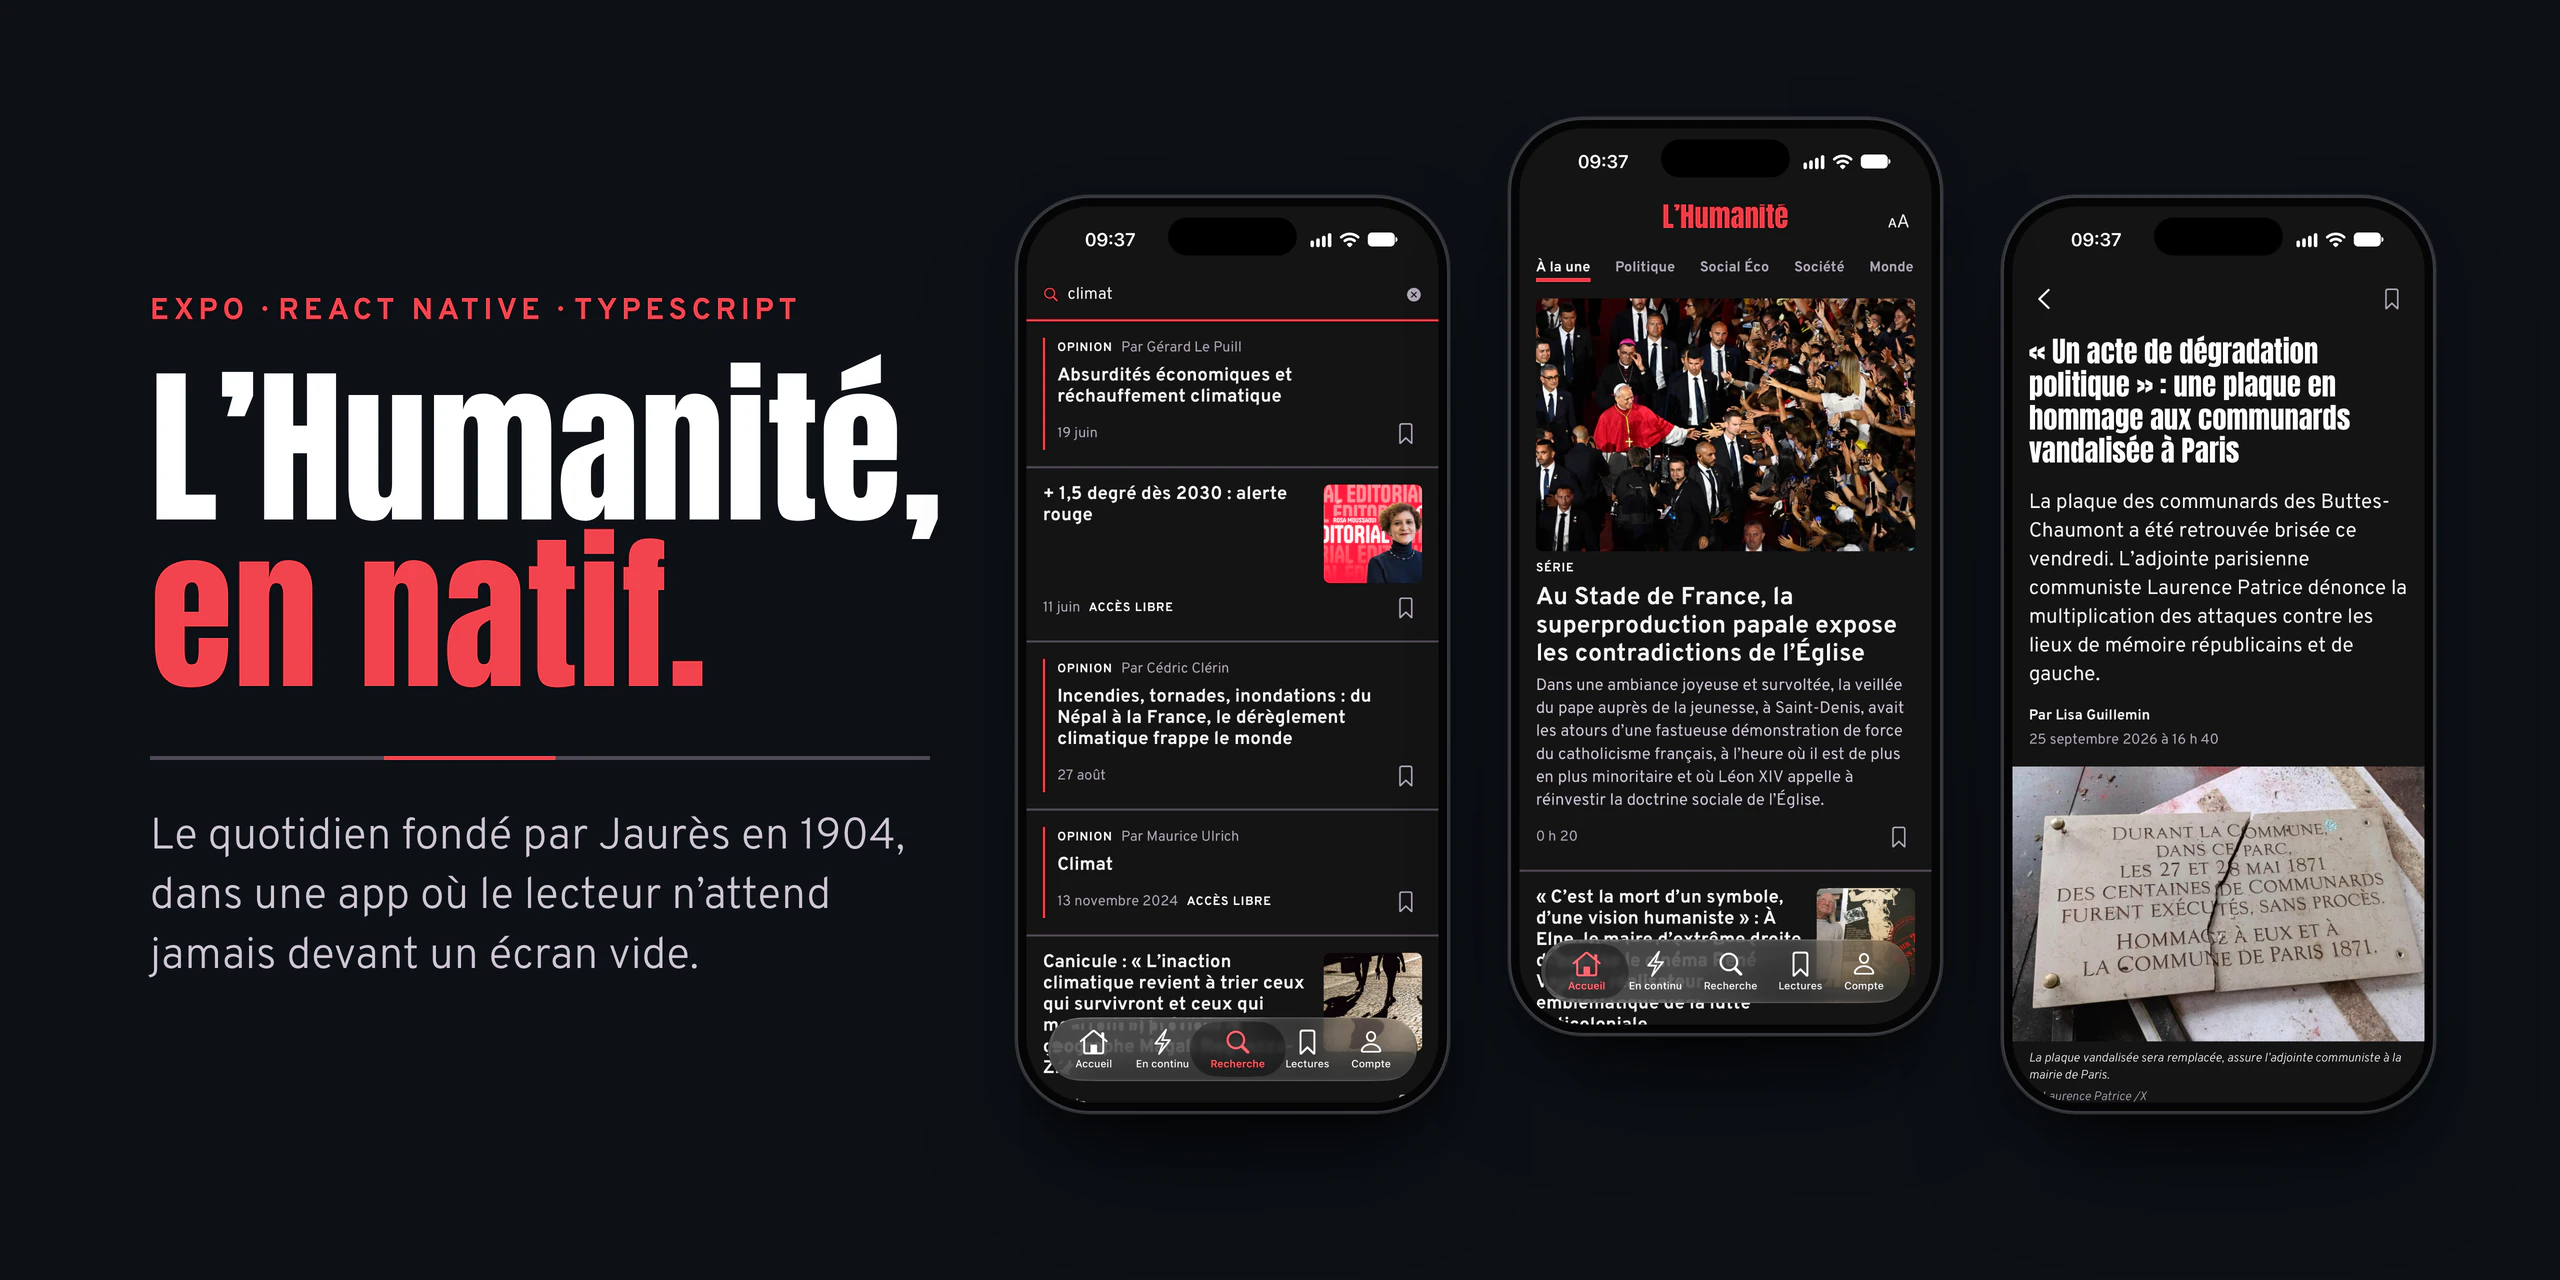
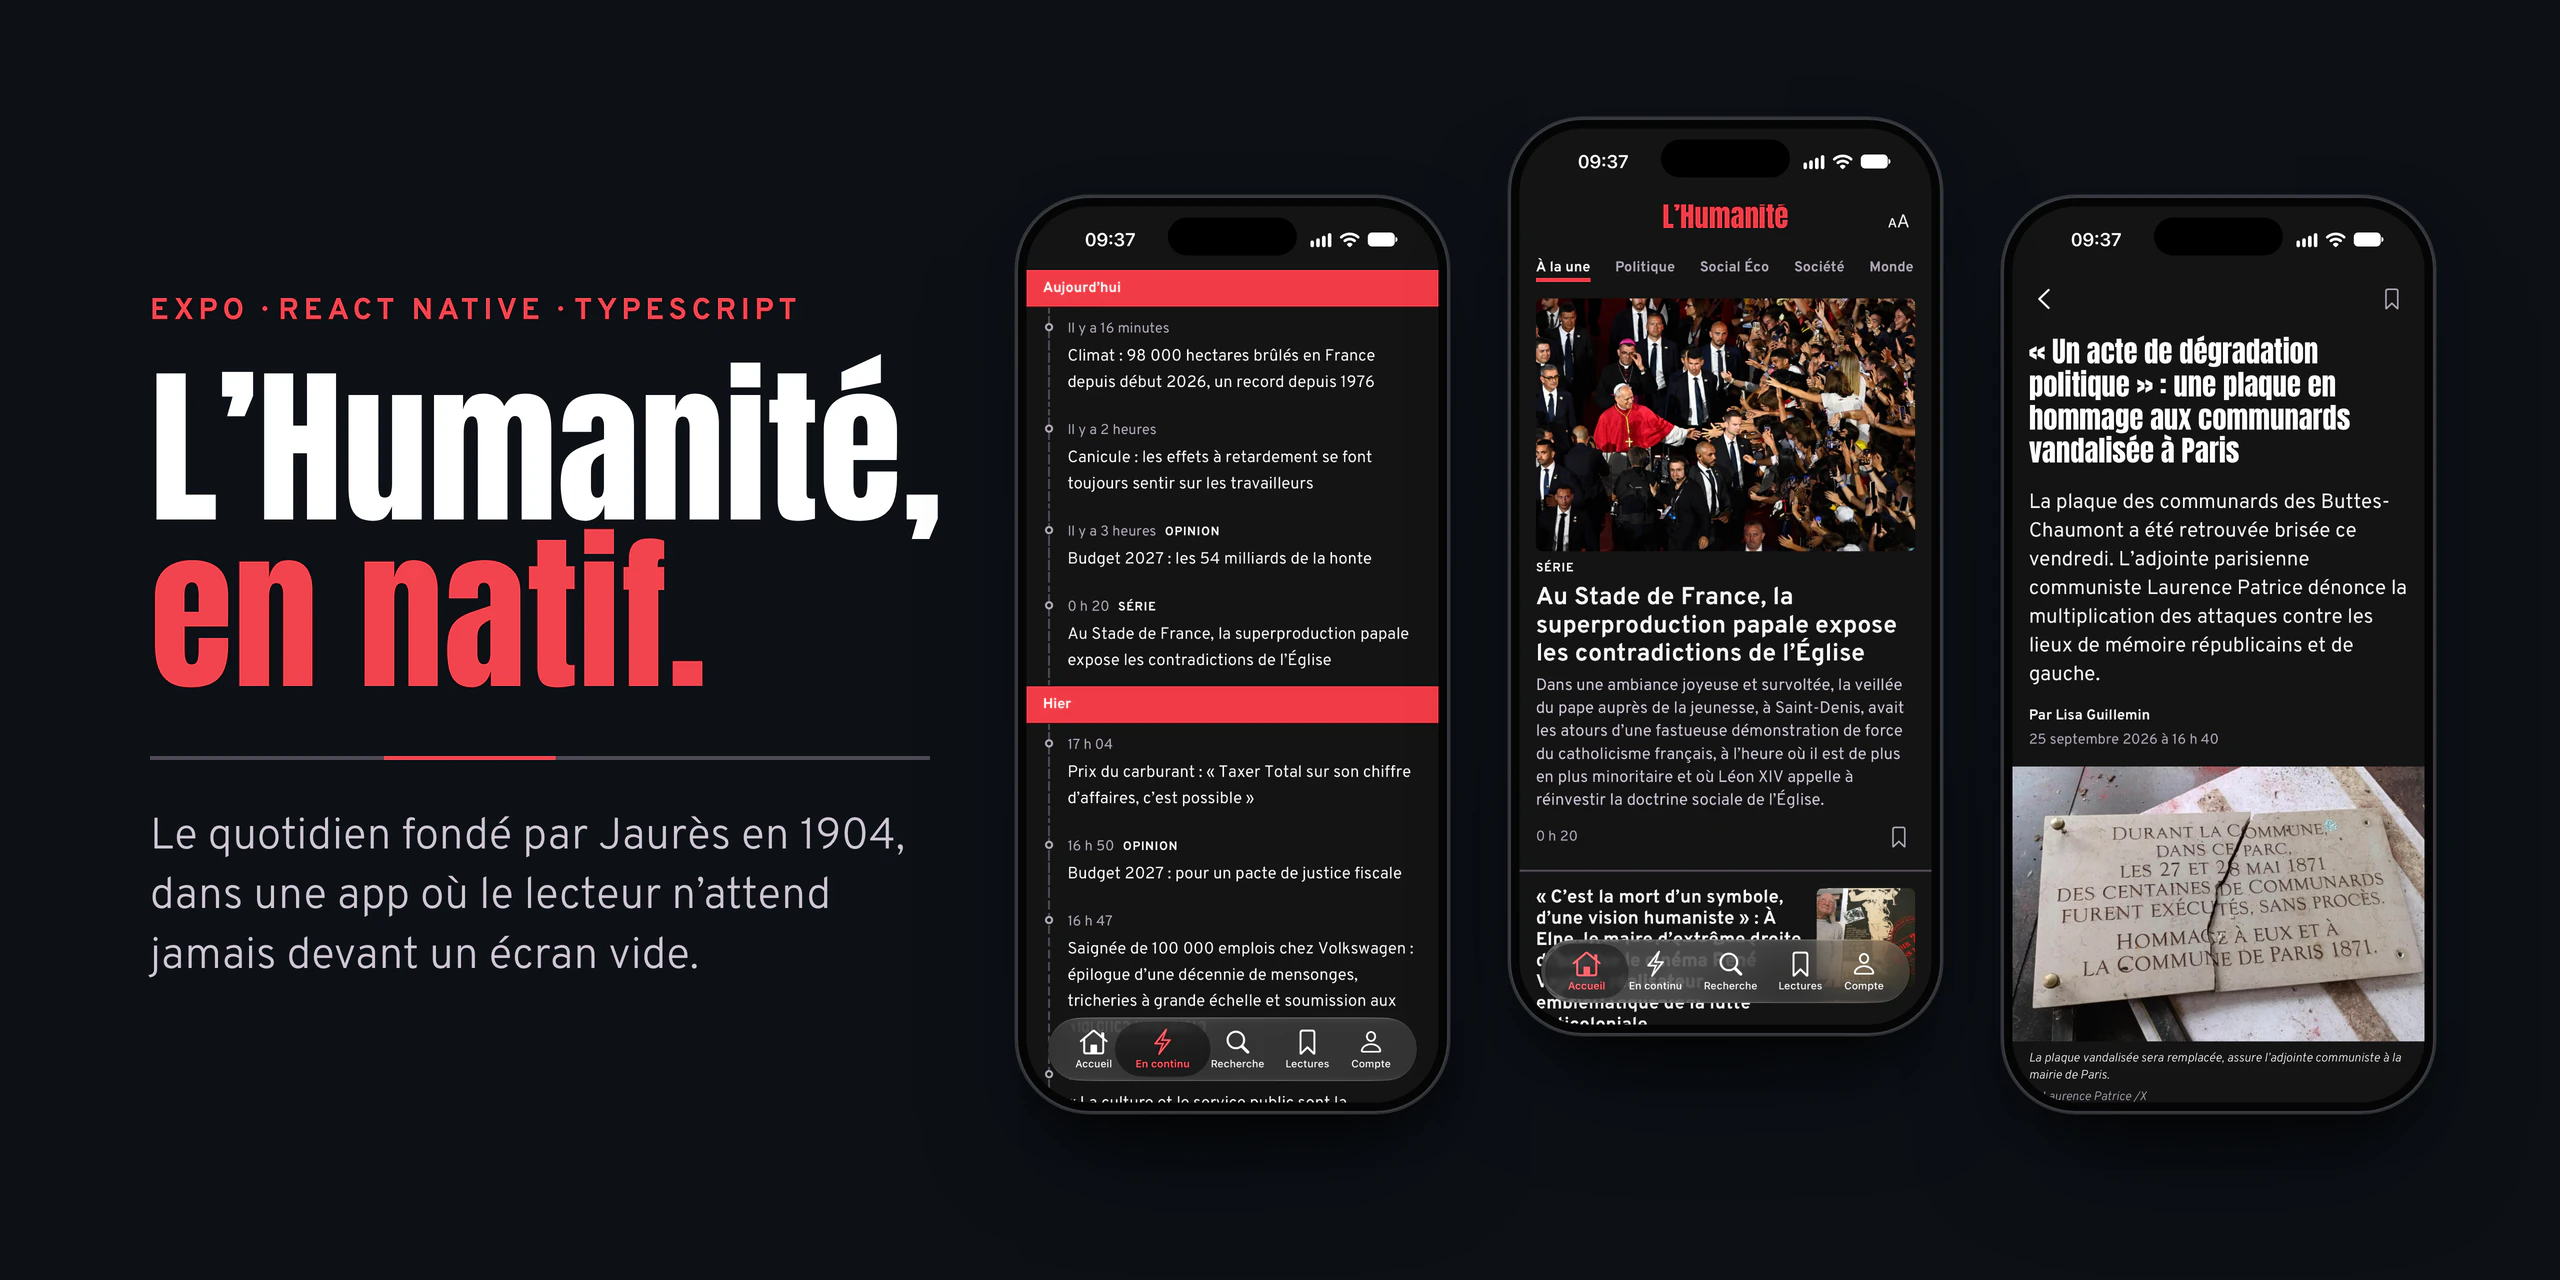
docs(repo): le fil En continu à la place de la recherche dans la bannière
La bannière montre la une entre le fil En continu et un article, trois écrans
qui se lisent comme un journal : ce qui vient de tomber, la une, un papier. La
recherche reste dans la galerie des quatre écrans, sous la bannière, et le
texte de remplacement de la bannière dit les écrans qu'elle montre.

Changed region(s): [[0.375, 0.1875, 0.5625, 0.8438]]

diff --git a/README.md b/README.md
@@ -2,7 +2,7 @@
 
 <picture>
   <source media="(prefers-color-scheme: dark)" srcset="docs/showcase/banner-dark.webp">
-  <img src="docs/showcase/banner-light.webp" width="100%" alt="L'Humanité, en natif : le quotidien fondé par Jaurès en 1904, dans une app où le lecteur n'attend jamais devant un écran vide. Trois écrans de l'app sur iPhone : une recherche, la une, un article.">
+  <img src="docs/showcase/banner-light.webp" width="100%" alt="L'Humanité, en natif : le quotidien fondé par Jaurès en 1904, dans une app où le lecteur n'attend jamais devant un écran vide. Trois écrans de l'app sur iPhone : le fil En continu, la une, un article.">
 </picture>
 
 ![Expo SDK 57](https://img.shields.io/badge/Expo-SDK%2057-000020?logo=expo&logoColor=white)
